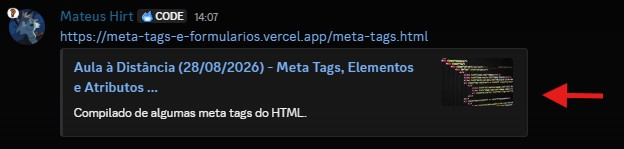
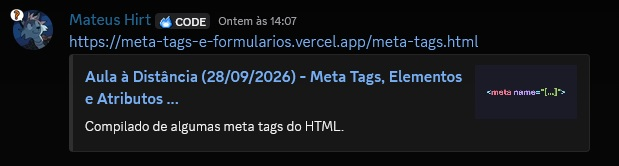
Pequenas correções

Changed region(s): [[0.0921, 0.3221, 0.9822, 0.9396], [0.0, 0.0537, 0.7981, 0.2953], [0.8288, 0.8859, 0.9515, 0.9128]]

diff --git a/meta-tags.html b/meta-tags.html
@@ -12,8 +12,8 @@
 	<meta name="description" content="Compilado de algumas meta tags do HTML.">
 	<meta property="og:description" content="Compilado de algumas meta tags do HTML.">
 	<meta property="og:url" content="https://meta-tags-e-formularios.vercel.app/meta-tags.html">
-	<meta property="og:title" content="Aula à Distância (28/08/2026) - Meta Tags, Elementos e Atributos HTML">
-	<meta property="og:image" content="https://encrypted-tbn0.gstatic.com/images?q=tbn:ANd9GcQawxMRxFHpyJBBUymLu0Rm4VP3nxJEn0BkSpkjftbtFBACSfEEqj5xrV4&s=10">
+	<meta property="og:image" content="https://meta-tags-e-formularios.vercel.app/img/OG/meta.jpg">
+	<meta property="og:title" content="Aula à Distância (28/09/2026) - Meta Tags, Elementos e Atributos HTML">
 	<title>Meta tags</title>
 </head>
 <body>
@@ -68,7 +68,7 @@
 						<!-- Indica qual é o nome do autor do documento. -->
 						<summary>Author</summary>
 						<p>Indica qual é o nome do autor do documento.</p>
-						<p><b>Exemplo:</b> No código <code>&lt;<span class="code reserved-keyword">meta</span> <span class="code attribute">name</span>=<span class="code text-string">"author"</span> <span class="code attribute">content</span>=<span class="code text-string">"Mateus"</span>&gt;</code> é informado o autor do documento atual.</p>
+						<p><b>Exemplo:</b> No código <code>&lt;<span class="code reserved-keyword">meta</span> <span class="code attribute">name</span>=<span class="code text-string">"author"</span> <span class="code attribute">content</span>=<span class="code text-string">"Mateus Hirt"</span>&gt;</code> é informado o autor do documento atual.</p>
 					</details>
 				</li>
 			</ul>
@@ -110,7 +110,7 @@
 
 				<li>
 					<details>
-						<!-- Open Graph Image define qual será a URL da página quando estiver sendo citada por outro aplicativo -->
+						<!-- Open Graph URL define qual será a URL da página quando estiver sendo citada por outro aplicativo -->
 						<!-- Define o que terá no campo de URL quando a página é mencionada por outro aplicativo (como uma rede social). Ele indica qual é o link (URL) original da página. -->
 						<summary>Open Graph: URL</summary>
 						<p>Define o que terá no campo de URL quando a página é mencionada por outro aplicativo (como uma rede social). Ele indica qual é o link (URL) original da página.</p>
@@ -213,7 +213,7 @@
 						<summary>Favicon</summary>
 						<p>Não é uma meta tag, mas sim um link. Isso pois não define informações sobre o documento, mas sim conecta ele a um arquivo.</p>
 						<p>Define qual o ícone da página. É ele quem define o ícone que aparece nos sites favoritos/salvos no navegador.</p>
-						<p><b>Exemplo:</b> <code>&lt;<span class="code reserved-keyword">link</span> <span class="code attribute">rel</span>=<span class="code text-string">"icon"</span> <span class="code attribute">type</span>=<span class="code text-string">"image/x-icon"</span> <span class="code attribute">href</span>=<span class="code text-string">"icon.png"</span>&gt;</code></p>
+						<p><b>Exemplo:</b> <code>&lt;<span class="code reserved-keyword">link</span> <span class="code attribute">rel</span>=<span class="code text-string">"icon"</span> <span class="code attribute">type</span>=<span class="code text-string">"image/svg+xml"</span> <span class="code attribute">href</span>=<span class="code text-string">"icon.svg"</span>&gt;</code></p>
 					</details>
 				</li>
 			</ul>

diff --git a/formularios.html b/formularios.html
@@ -12,8 +12,8 @@
 	<meta name="viewport" content="width=device-width, initial-scale=1.0">
 	<meta property="og:description" content="Alguns tipos de input do HTML.">
 	<meta property="og:url" content="https://meta-tags-e-formularios.vercel.app/formularios.html">
-	<meta property="og:title" content="Aula à Distância (28/08/2026) - Meta Tags, Elementos e Atributos HTML">
-	<meta property="og:image" content="https://encrypted-tbn0.gstatic.com/images?q=tbn:ANd9GcQawxMRxFHpyJBBUymLu0Rm4VP3nxJEn0BkSpkjftbtFBACSfEEqj5xrV4&s=10">
+	<meta property="og:image" content="https://meta-tags-e-formularios.vercel.app/img/OG/input.jpg">
+	<meta property="og:title" content="Aula à Distância (28/09/2026) - Meta Tags, Elementos e Atributos HTML">
 	<title>Formulário HTML</title>
 </head>
 <body>

diff --git a/styles.css b/styles.css
@@ -11,7 +11,7 @@ article {
 
 /* Tentando imitar o tema Tokyo Night */
 code {
-	background-color: #222;
+	background-color: #1A1B26;
 	color: #89DDFF;
 	padding: 1px 6px 2px 6px;
 	border-radius: 4px;
